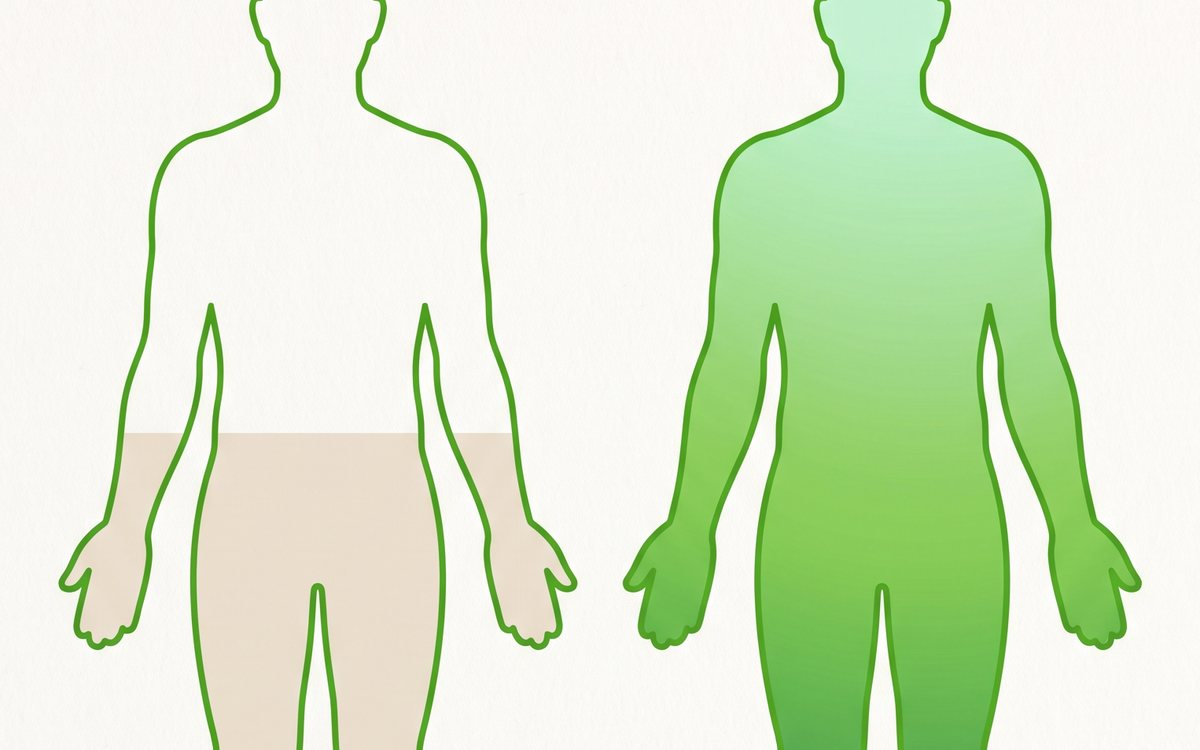
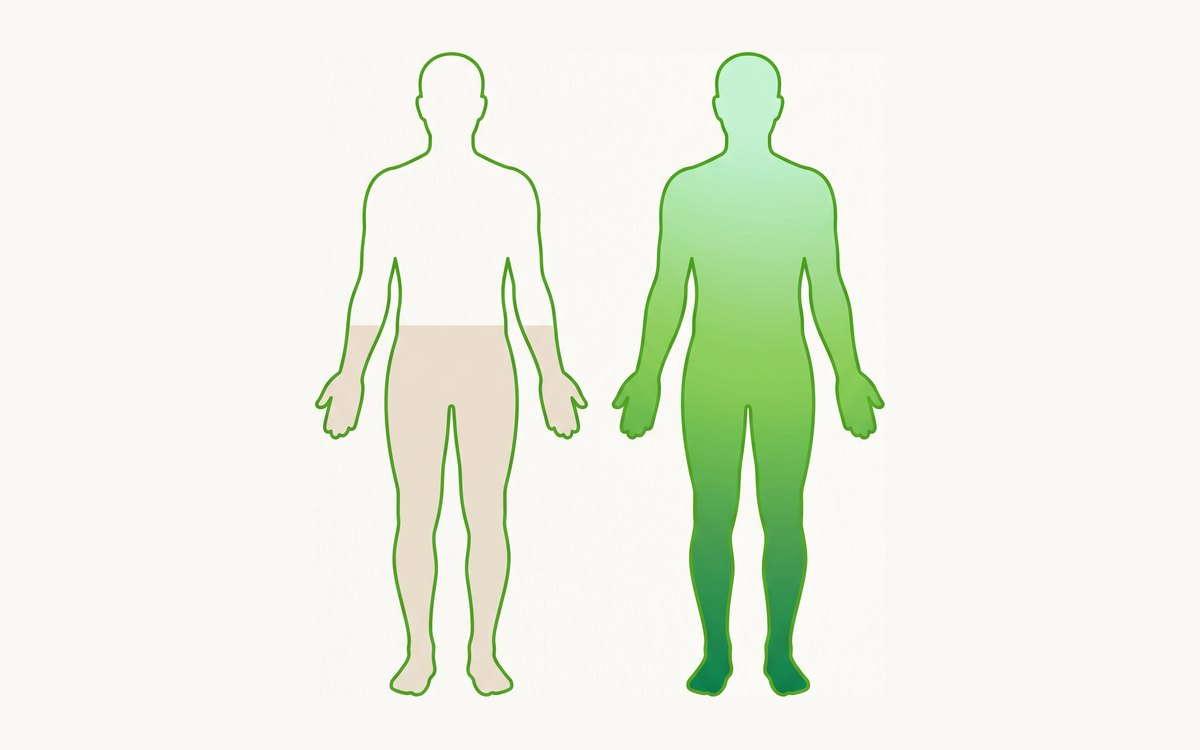
Quiz: antes/depois inteiro; resultado com nota de 0 a 10, plano de 30 dias e oferta do Good Green com a garrafa

diff --git a/assets/js/lp.js b/assets/js/lp.js
@@ -32,7 +32,7 @@
 
   /* barra fixa de compra no celular (mesma do site): nas LPs sem bloco de compra, aparece depois do primeiro CTA sair da tela */
   const primeiroCta = $('[data-lp-add]');
-  if (primeiroCta && !$('#barra-fixa') && !$('[data-add-qtd]')) {
+  if (primeiroCta && !$('#barra-fixa') && !$('[data-add-qtd]') && !$('.qz')) {
     const qtd = +(primeiroCta.dataset.lpAdd || 1);
     const nome = qtd > 1 ? `${qtd} potes · assinatura trimestral` : 'Assinatura mensal';
     document.body.insertAdjacentHTML('beforeend', `<div class="barra-fixa so-mobile" id="barra-fixa"><div class="faixa-benef-mini"><div class="trilho">${['Garrafa de vidro de brinde', 'Frete grátis no trimestral', 'Cancele quando quiser', 'Garrafa de vidro de brinde', 'Frete grátis no trimestral', 'Cancele quando quiser'].map((t, i) => `<span>${ic(['presente', 'frete', 'check'][i % 3])}${t}</span>`).join('')}</div></div><div class="linha-compra"><img src="assets/img/pote-abacaxi-hortela.jpg" alt=""><div><b>Good Green GG-01</b><small>${nome}</small><em>R$ —</em></div><button class="btn btn-neon" data-lp-add="${qtd}">${primeiroCta.textContent.trim().replace(/\s*→\s*$/, '')} <span class="seta">→</span></button></div></div>`);
@@ -81,6 +81,28 @@
       else if (/Vários potes/i.test(tenta)) { t = 'Seu foco: um pote no lugar de vários.'; d = 'Vitaminas C, B2, B6 e B12, cromo e zinco numa bebida só, uma vez ao dia.'; }
       else if (/liquidificador/i.test(tenta) || /Nenhuma|Não faço/i.test(verdes)) { t = 'Seu foco: tirar o liquidificador do caminho.'; d = 'O verde que você adia entra em 30 segundos: uma medida em 300 ml de água, gelada fica melhor.'; }
       if (perfil) perfil.textContent = t; if (det) det.textContent = d;
+      /* nota de 0 a 10 pela rotina de hoje */
+      let nota = 10;
+      nota -= Math.min(3, dor.filter(x => !/Nada disso/i.test(x)).length) * 1.2;
+      if (/Dia sim/.test(banheiro)) nota -= 1; else if (/semana ou menos/.test(banheiro)) nota -= 2; else if (/Varia/.test(banheiro)) nota -= 1;
+      if (/Nenhuma/.test(verdes)) nota -= 2; else if (/^Uma/.test(verdes)) nota -= 1; else if (/Não faço/.test(verdes)) nota -= 1;
+      if (/Nada ainda/.test(tenta)) nota -= 0.5;
+      nota = Math.max(3, Math.min(9.5, Math.round(nota * 2) / 2));
+      const nEl = $('[data-qz-nota]'), bEl = $('[data-qz-barra]'), ntEl = $('[data-qz-nota-texto]');
+      if (nEl) nEl.textContent = nota.toFixed(1).replace('.', ',');
+      if (bEl) bEl.style.width = (nota * 10) + '%';
+      if (ntEl) ntEl.textContent = nota >= 8 ? 'Base boa. O que falta é constância, e isso o plano resolve.' : nota >= 6 ? 'Tem base, mas os verdes entram pouco no seu dia.' : 'Hoje os verdes quase não entram na sua rotina. Dá para virar em 30 dias.';
+      /* plano de 30 dias */
+      let p1 = 'Uma medida de Good Green em 300 ml de água, uma vez ao dia, no horário que você já tem.';
+      if (dor.some(x => /estufada|intestino/i.test(x))) p1 = 'Uma medida de Good Green em 300 ml de água logo depois do café da manhã, todo dia, e mais dois copos de água até o almoço.';
+      else if (dor.some(x => /tetinha/i.test(x))) p1 = 'Uma medida de Good Green depois do café da manhã, todo dia, e troque o lanche da tarde por uma fruta.';
+      else if (dor.some(x => /Cansaço/i.test(x))) p1 = 'Uma medida de Good Green antes do café ou no meio da tarde, no lugar do segundo café: cafeína do guaraná e vitaminas B.';
+      else if (dor.some(x => /Resfriados|imunidade/i.test(x))) p1 = 'Uma medida de Good Green de manhã, todo dia: vitamina C e zinco na primeira hora, sem abrir vários potes.';
+      let p2 = 'Deixe o pote ao lado do copo e prepare na garrafa de vidro nos dias de sair cedo.';
+      if (/Dia sim|semana ou menos|Varia/.test(banheiro) || /Nenhuma|Não faço/.test(verdes)) p2 = 'Some fibras de comida de verdade: feijão, fruta com casca e uma salada por dia, com água ao longo do dia. A medida continua a mesma.';
+      const p3 = 'Mantenha a dose no mesmo horário e anote como foi a semana. Na assinatura, o próximo pote chega antes do seu acabar, e a rotina não para.';
+      const e1 = $('[data-qz-p1]'), e2 = $('[data-qz-p2]'), e3 = $('[data-qz-p3]');
+      if (e1) e1.textContent = p1; if (e2) e2.textContent = p2; if (e3) e3.textContent = p3;
       mostra(i + 1);
     }, true);
     mostra(0);

diff --git a/quiz.html b/quiz.html
@@ -6,7 +6,7 @@
 <title>Good Green · Barriga estufada, intestino preso, cansaço? Responda e libere a garrafa de brinde</title>
 <meta name="description" content="Responda 4 perguntas sobre o que incomoda no seu dia e libere a garrafa de vidro de brinde no seu primeiro pedido de Good Green.">
 <link rel="stylesheet" href="assets/css/site.css?v=202610251800">
-<link rel="stylesheet" href="assets/css/lp.css?v=202610251700">
+<link rel="stylesheet" href="assets/css/lp.css?v=202610260900">
 </head>
 <body data-nav="claro" data-page="lp" data-lp="quiz">
 
@@ -147,12 +147,29 @@
     <section class="qz-passo qz-resultado">
       <span class="qz-recompensa">Garrafa de vidro liberada</span>
       <h2>Seu resultado.</h2>
-      <div class="perfil"><b data-qz-perfil>Você quer começar sem complicar.</b><span style="opacity:.85" data-qz-detalhe>Uma medida de Good Green em 300 ml de água, uma vez ao dia, no horário que sobrar.</span></div>
-      <div class="qz-brinde">
-        <div><img src="assets/img/garrafa-vidro-vazia.jpg" alt=""><div><b>Garrafa de vidro</b><small>Grátis no 1º pedido</small></div></div>
-        <div><img src="assets/img/kit-pote-garrafa.jpg" alt=""><div><b>Kit de boas-vindas</b><small>Pote + garrafa</small></div></div>
+      <div class="qz-nota">
+        <div class="num"><b data-qz-nota>7,0</b><small>/10</small></div>
+        <div class="txt"><span class="tag">Sua rotina verde hoje</span><div class="barra"><i data-qz-barra style="width:70%"></i></div><p data-qz-nota-texto>Tem base, mas os verdes entram pouco.</p></div>
       </div>
-      <a class="btn btn-neon btn-bloco" href="lp-oferta.html#comprar">Garantir minha garrafa <span class="seta">→</span></a>
+      <div class="perfil"><b data-qz-perfil>Você quer começar sem complicar.</b><span style="opacity:.85" data-qz-detalhe>Uma medida de Good Green em 300 ml de água, uma vez ao dia, no horário que sobrar.</span></div>
+      <div class="qz-plano">
+        <span class="tag">Seu plano de 30 dias</span>
+        <ol>
+          <li><b>Semana 1</b><span data-qz-p1>Uma medida de Good Green em 300 ml de água, uma vez ao dia, no horário que você já tem.</span></li>
+          <li><b>Semana 2</b><span data-qz-p2>Deixe o pote ao lado do copo e prepare na garrafa de vidro nos dias de sair cedo.</span></li>
+          <li><b>Semanas 3 e 4</b><span data-qz-p3>Mantenha a dose no mesmo horário e anote como foi a semana. Na assinatura, o próximo pote chega antes do seu acabar.</span></li>
+        </ol>
+      </div>
+      <div class="qz-oferta">
+        <img src="assets/img/kit-pote-garrafa.jpg" alt="Pote Good Green e garrafa de vidro">
+        <div>
+          <span class="tag neon">Para começar o plano</span>
+          <b>Good Green GG-01 + garrafa de vidro</b>
+          <small>30 doses · abacaxi com hortelã · garrafa de vidro de brinde no 1º pedido da assinatura · frete grátis no plano trimestral · pause ou cancele quando quiser</small>
+          <em>R$ —</em>
+          <div class="acoes"><button class="btn btn-neon" type="button" data-lp-add="1">Começar minha rotina <span class="seta">→</span></button><a class="btn btn-linha" href="produto.html">Ver o produto</a></div>
+        </div>
+      </div>
       <p class="qz-privacidade">Este produto não é um medicamento e não substitui orientação de nutricionista ou médico. Indicado para maiores de 19 anos. Não deve ser consumido por gestantes, lactantes e crianças. Contém cafeína (guaraná). Garrafa de vidro de brinde válida para o primeiro pedido da assinatura, enquanto durar o lote.</p>
     </section>
   </div>
@@ -160,6 +177,6 @@
 
 <script src="assets/js/sprite.js?v=202610231745"></script>
 <script src="assets/js/site.js?v=202610231745"></script>
-<script src="assets/js/lp.js?v=202610251700"></script>
+<script src="assets/js/lp.js?v=202610260900"></script>
 </body>
 </html>

diff --git a/assets/css/lp.css b/assets/css/lp.css
@@ -315,6 +315,26 @@ body[data-lp] .nav{justify-content:space-between}
 .qz-brinde b{display:block;font-weight:500}
 .qz-brinde small{color:var(--verde);font-weight:500}
 .qz-privacidade{font-size:12px;color:var(--mut);line-height:1.5;margin-top:40px}
+.qz-nota{display:grid;grid-template-columns:auto 1fr;gap:24px;align-items:center;background:#fff;border-radius:var(--r-md);padding:24px 28px;margin:20px 0 16px}
+.qz-nota .num{display:flex;align-items:baseline;gap:4px;font-weight:300;letter-spacing:-.03em}
+.qz-nota .num b{font-weight:300;font-size:72px;line-height:1;color:var(--petroleo)}
+.qz-nota .num small{font-size:20px;color:var(--mut)}
+.qz-nota .barra{height:8px;border-radius:4px;background:var(--osso);overflow:hidden;margin:10px 0 10px}
+.qz-nota .barra i{display:block;height:100%;border-radius:4px;background:linear-gradient(90deg,var(--verde),var(--neon));transition:width .8s var(--ease-out)}
+.qz-nota p{font-size:16px;line-height:1.4;margin:0}
+.qz-plano{background:#fff;border-radius:var(--r-md);padding:24px 28px;margin:0 0 16px}
+.qz-plano ol{list-style:none;display:grid;gap:14px;margin-top:14px}
+.qz-plano li{display:grid;grid-template-columns:112px 1fr;gap:14px;font-size:16px;line-height:1.4;padding-top:14px;border-top:1px solid var(--linha)}
+.qz-plano li:first-child{border-top:0;padding-top:0}
+.qz-plano li b{font-weight:500;color:var(--verde)}
+.qz-oferta{display:grid;grid-template-columns:150px 1fr;gap:20px;align-items:center;background:var(--petroleo);color:#fff;border-radius:var(--r-md);padding:20px;margin:0 0 20px}
+.qz-oferta img{width:100%;aspect-ratio:4/5;object-fit:cover;border-radius:14px}
+.qz-oferta b{display:block;font-weight:500;font-size:22px;letter-spacing:-.01em;margin:8px 0 6px}
+.qz-oferta small{display:block;font-size:13px;opacity:.8;line-height:1.45}
+.qz-oferta em{display:block;font-style:normal;font-weight:300;font-size:32px;margin:12px 0 14px}
+.qz-oferta .acoes{display:flex;gap:10px;flex-wrap:wrap}
+.qz-oferta .btn-linha{color:#fff;border-color:rgba(255,255,255,.35)}
+@media (max-width:600px){.qz-nota{grid-template-columns:1fr;gap:12px}.qz-plano li{grid-template-columns:1fr;gap:4px}.qz-oferta{grid-template-columns:1fr}.qz-oferta img{aspect-ratio:16/10}}
 .qz-resultado .perfil{background:var(--petroleo);color:#fff;border-radius:var(--r-md);padding:28px;margin:20px 0 28px}
 .qz-resultado .perfil b{display:block;font-weight:300;font-size:30px;letter-spacing:-.02em;margin-bottom:8px}
 

diff --git a/lp-ranking.html b/lp-ranking.html
@@ -6,7 +6,7 @@
 <title>Qual é o melhor greens em pó do Brasil? Análise comparativa de 5 fórmulas · 2026</title>
 <meta name="description" content="Analisamos 5 greens em pó vendidos no Brasil pelos mesmos critérios: verdes de verdade por dose, vitaminas declaradas no rótulo, fibras, transparência e custo por porção. Veja o método e o resultado.">>
 <link rel="stylesheet" href="assets/css/site.css?v=202610251800">
-<link rel="stylesheet" href="assets/css/lp.css?v=202610251600">
+<link rel="stylesheet" href="assets/css/lp.css?v=202610260900">
 </head>
 <body data-nav="claro" data-page="lp" data-lp="ranking">
 
@@ -139,6 +139,6 @@
 
 <script src="assets/js/sprite.js?v=202610231745"></script>
 <script src="assets/js/site.js?v=202610231745"></script>
-<script src="assets/js/lp.js?v=202610251700"></script>
+<script src="assets/js/lp.js?v=202610260900"></script>
 </body>
 </html>

diff --git a/lp-longa.html b/lp-longa.html
@@ -6,7 +6,7 @@
 <title>Good Green · Sua dose diária de verdes, sem liquidificador</title>
 <meta name="description" content="Uma medida de 7,5 g em 300 ml de água: couve, espirulina, gengibre, guaraná, vitaminas e minerais. Garrafa de vidro de brinde no primeiro pedido da assinatura.">
 <link rel="stylesheet" href="assets/css/site.css?v=202610251800">
-<link rel="stylesheet" href="assets/css/lp.css?v=202610251600">
+<link rel="stylesheet" href="assets/css/lp.css?v=202610260900">
 </head>
 <body data-nav="claro" data-page="lp" data-lp="longa">
 
@@ -150,6 +150,6 @@
 
 <script src="assets/js/sprite.js?v=202610231745"></script>
 <script src="assets/js/site.js?v=202610231745"></script>
-<script src="assets/js/lp.js?v=202610251700"></script>
+<script src="assets/js/lp.js?v=202610260900"></script>
 </body>
 </html>

diff --git a/lp-oferta.html b/lp-oferta.html
@@ -6,7 +6,7 @@
 <title>Good Green · Garrafa de vidro de brinde no 1º pedido</title>
 <meta name="description" content="Todo mundo adia o suco verde. Good Green resolve em 30 segundos: uma medida em 300 ml de água. Garrafa de vidro de brinde no primeiro pedido da assinatura.">
 <link rel="stylesheet" href="assets/css/site.css?v=202610251800">
-<link rel="stylesheet" href="assets/css/lp.css?v=202610251600">
+<link rel="stylesheet" href="assets/css/lp.css?v=202610260900">
 </head>
 <body data-nav="claro" data-page="lp" data-lp="oferta">
 
@@ -229,6 +229,6 @@
 
 <script src="assets/js/sprite.js?v=202610231745"></script>
 <script src="assets/js/site.js?v=202610231745"></script>
-<script src="assets/js/lp.js?v=202610251700"></script>
+<script src="assets/js/lp.js?v=202610260900"></script>
 </body>
 </html>

diff --git a/lp-5-motivos.html b/lp-5-motivos.html
@@ -6,7 +6,7 @@
 <title>5 motivos para trocar o suco verde caseiro por Good Green</title>
 <meta name="description" content="Cada vez mais gente quer colocar verdes na rotina sem passar meia hora na cozinha. Os motivos de quem trocou o liquidificador por uma medida de Good Green.">
 <link rel="stylesheet" href="assets/css/site.css?v=202610251800">
-<link rel="stylesheet" href="assets/css/lp.css?v=202610251600">
+<link rel="stylesheet" href="assets/css/lp.css?v=202610260900">
 </head>
 <body data-nav="claro" data-page="lp" data-lp="publi">
 
@@ -97,6 +97,6 @@
 
 <script src="assets/js/sprite.js?v=202610231745"></script>
 <script src="assets/js/site.js?v=202610231745"></script>
-<script src="assets/js/lp.js?v=202610251700"></script>
+<script src="assets/js/lp.js?v=202610260900"></script>
 </body>
 </html>

diff --git a/lp-3-potes.html b/lp-3-potes.html
@@ -6,7 +6,7 @@
 <title>Good Green · 3 potes e a garrafa de vidro de brinde</title>
 <meta name="description" content="Assinatura trimestral: 3 potes de Good Green a cada 90 dias, frete grátis e a garrafa de vidro de brinde no primeiro pedido. Sabor abacaxi com hortelã.">
 <link rel="stylesheet" href="assets/css/site.css?v=202610251800">
-<link rel="stylesheet" href="assets/css/lp.css?v=202610251600">
+<link rel="stylesheet" href="assets/css/lp.css?v=202610260900">
 </head>
 <body data-nav="claro" data-page="lp" data-lp="curta">
 
@@ -99,6 +99,6 @@
 
 <script src="assets/js/sprite.js?v=202610231745"></script>
 <script src="assets/js/site.js?v=202610231745"></script>
-<script src="assets/js/lp.js?v=202610251700"></script>
+<script src="assets/js/lp.js?v=202610260900"></script>
 </body>
 </html>
